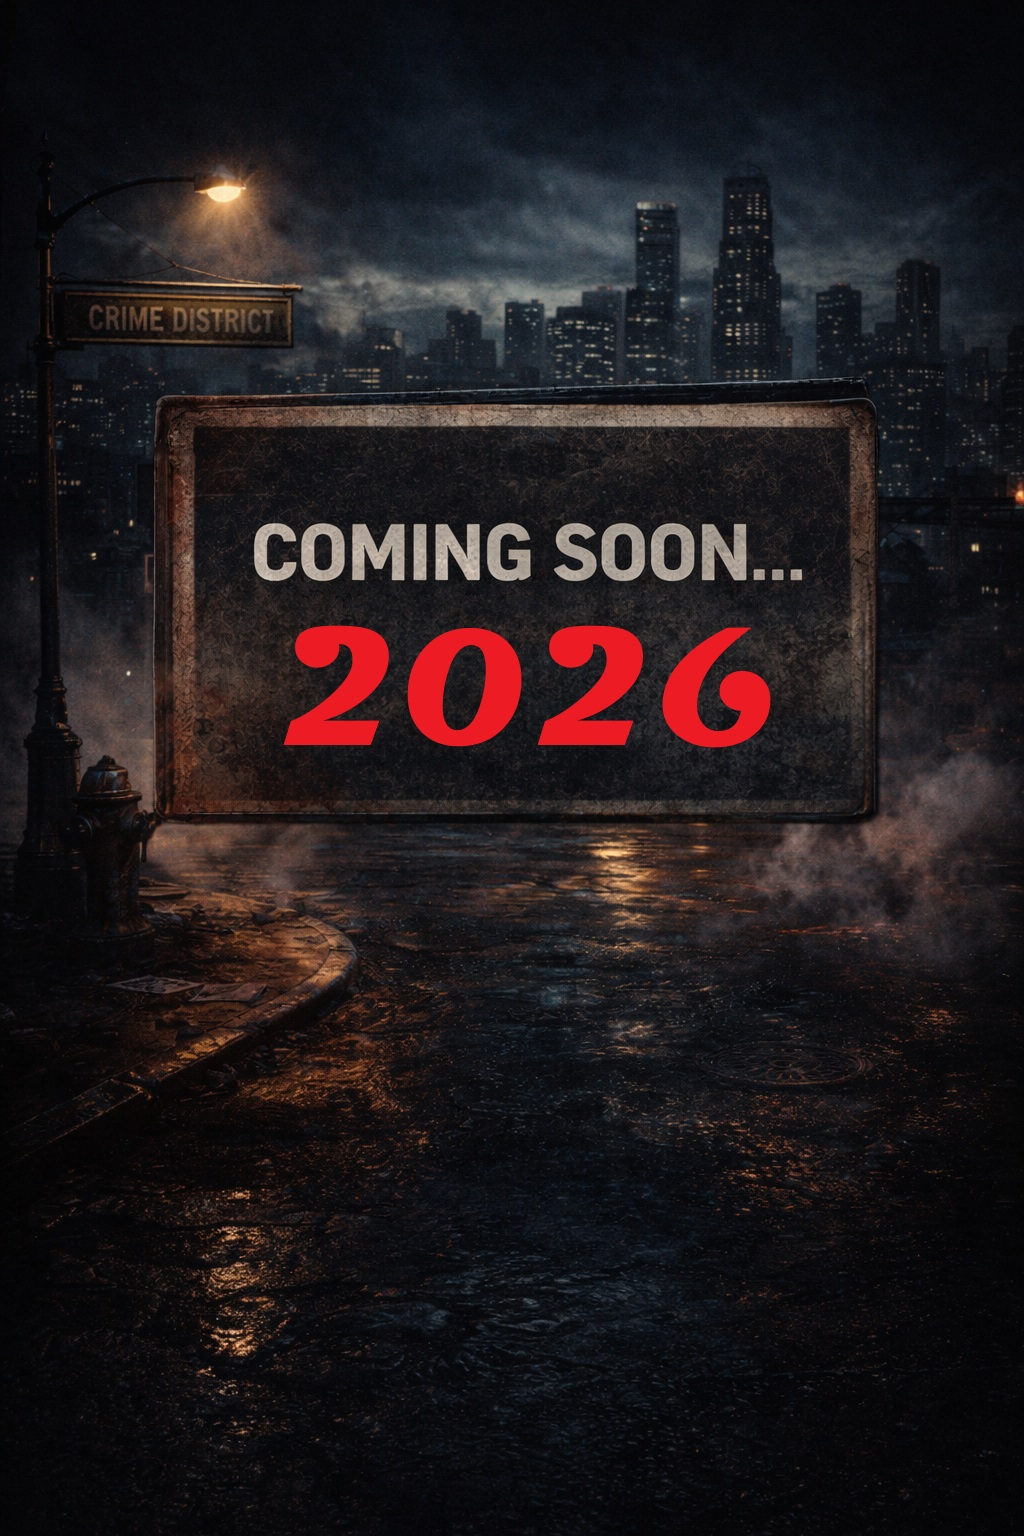
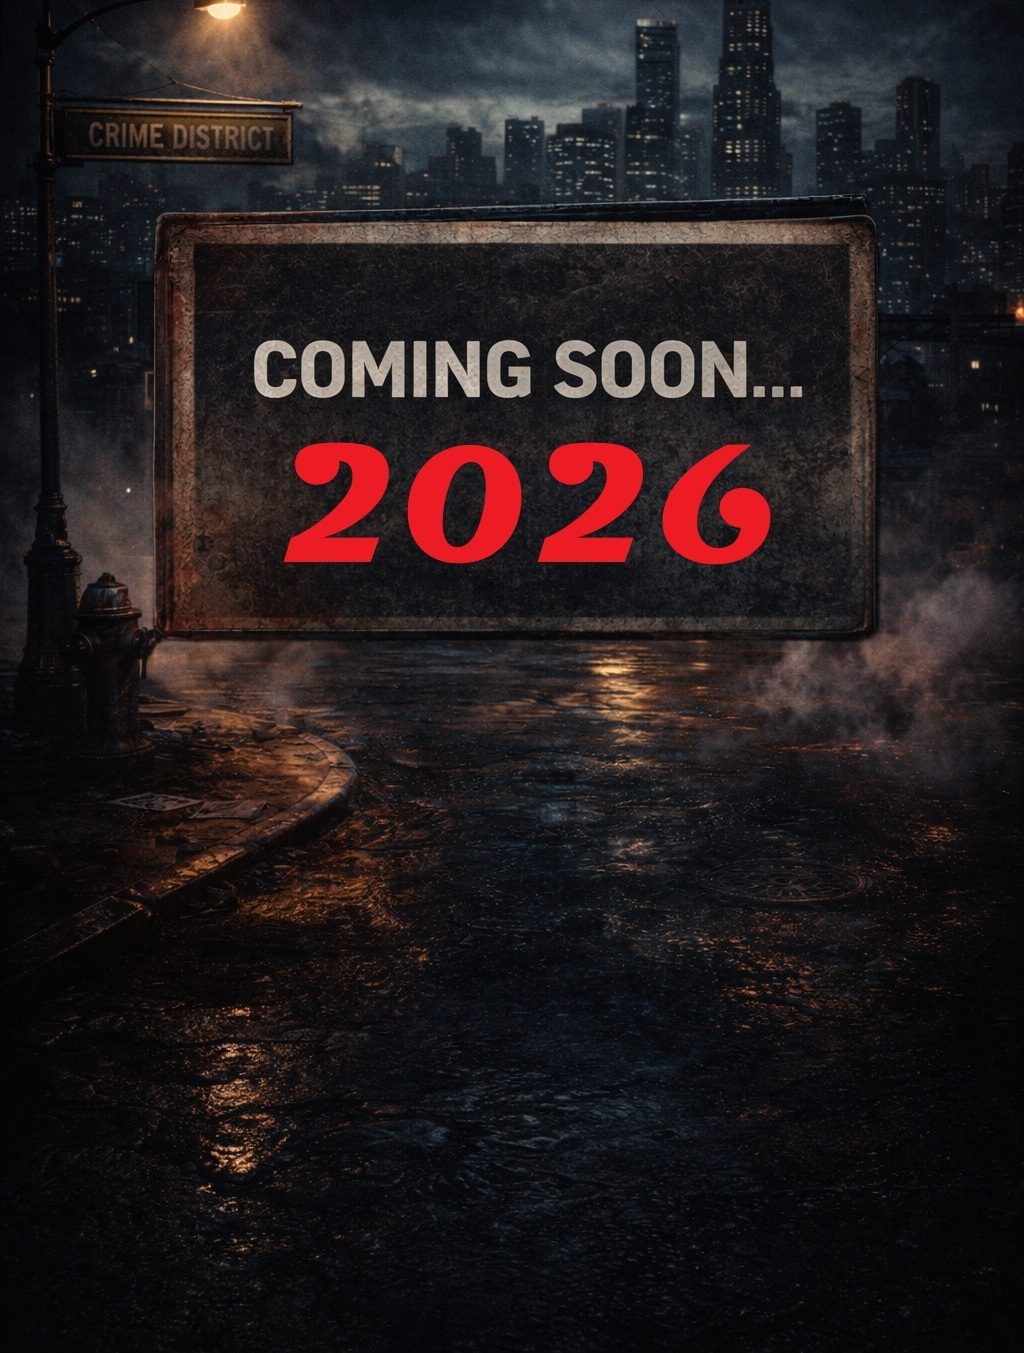
Add files via upload

diff --git a/index.html b/index.html
@@ -1,0 +1,68 @@
+<!DOCTYPE html>
+<html lang="en">
+<head>
+  <meta charset="UTF-8" />
+  <meta name="viewport" content="width=device-width, initial-scale=1.0" />
+  <title>LifeIsCrime.com</title>
+
+  <style>
+    * { margin: 0; padding: 0; box-sizing: border-box; }
+
+    body {
+      font-family: Arial, Helvetica, sans-serif;
+      background: #000;
+      color: #fff;
+    }
+
+    /* Header */
+    header {
+      position: fixed;
+      top: 0;
+      left: 0;
+      width: 100%;
+      height: 70px;
+      background: #000;
+      display: flex;
+      align-items: center;
+      padding-left: 30px;
+      border-bottom: 1px solid #222;
+      z-index: 1000;
+    }
+
+    .siteTitle {
+      font-size: 26px;
+      font-weight: 700;
+      letter-spacing: 1px;
+      color: #fff;
+    }
+
+    .siteTitle span {
+      color: #888;
+      font-weight: 500;
+    }
+
+    /* Push content below fixed header */
+    main {
+      padding-top: 70px; /* exactly header height */
+    }
+
+    /* Image behavior */
+    .hero-img {
+      display: block;
+      width: 100%;
+      height: auto;          /* keeps full image proportions */
+      max-height: none;      /* don't crop */
+    }
+  </style>
+</head>
+
+<body>
+  <header>
+    <div class="siteTitle">LifeIsCrime<span>.com</span></div>
+  </header>
+
+  <main>
+    <img class="hero-img" src="comingsoon.jpg" alt="Coming Soon" />
+  </main>
+</body>
+</html>
